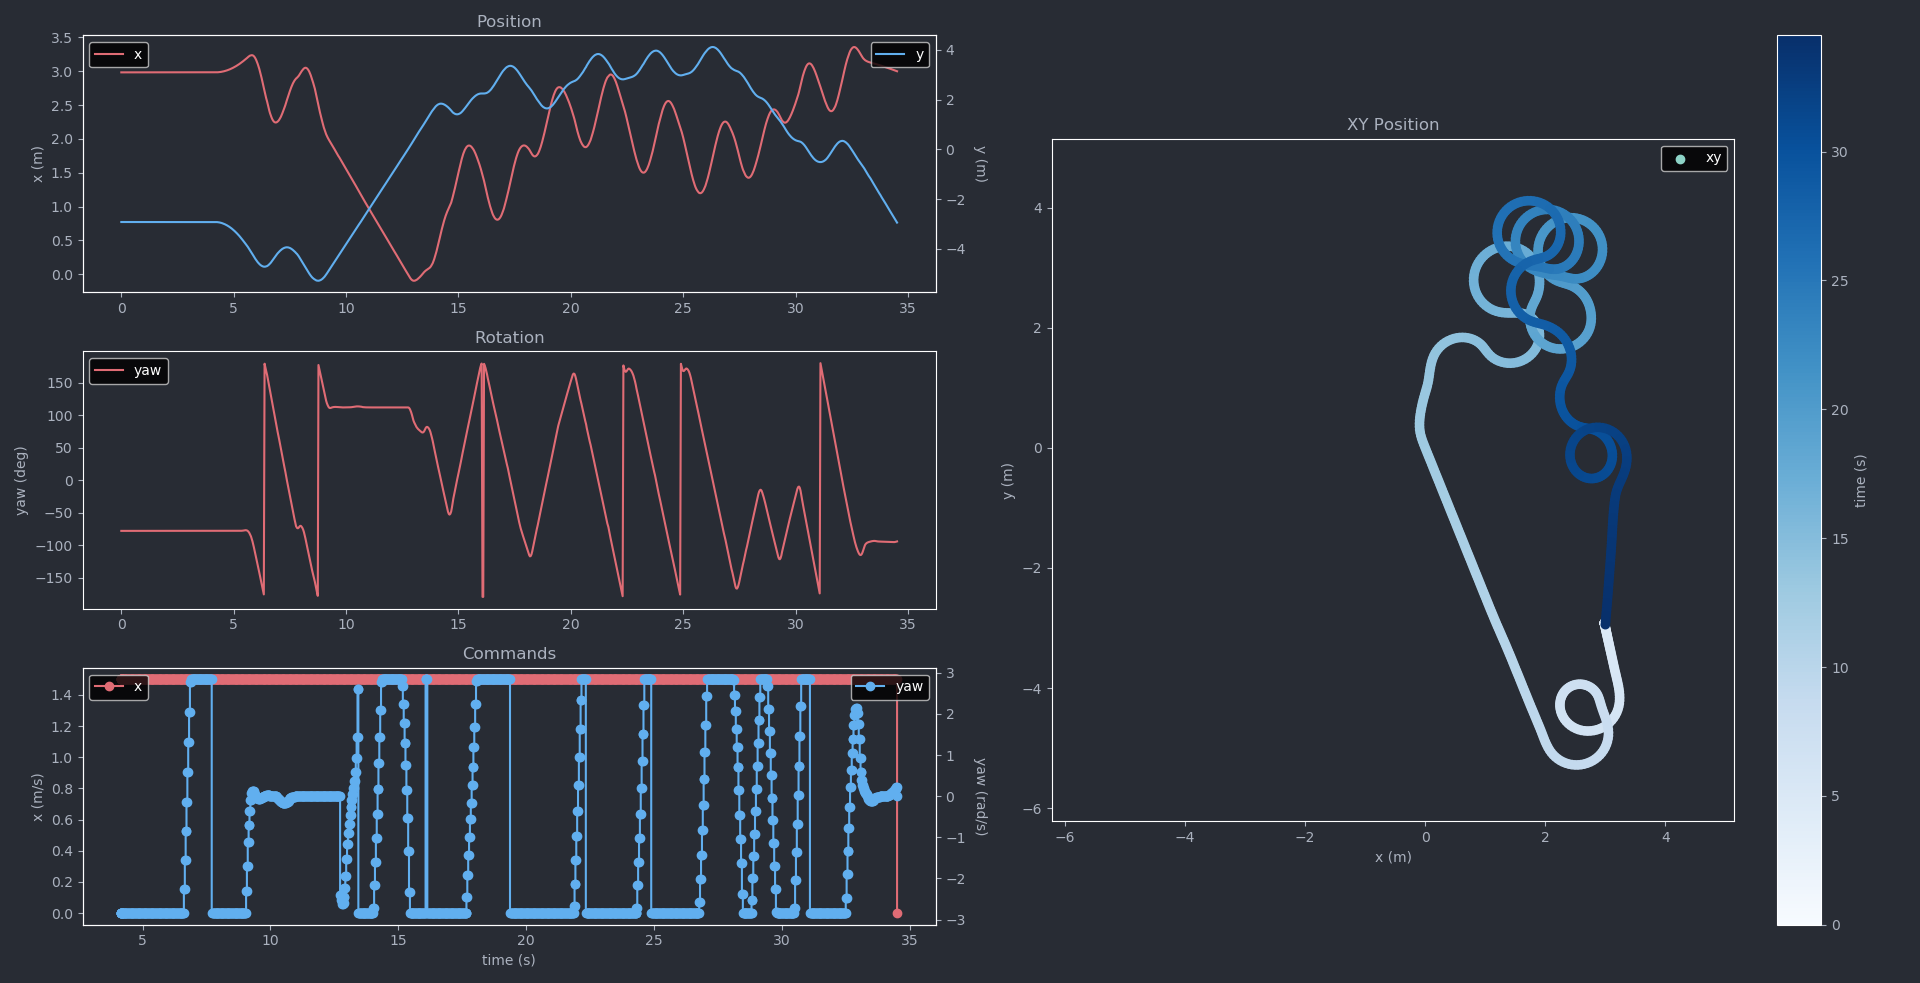
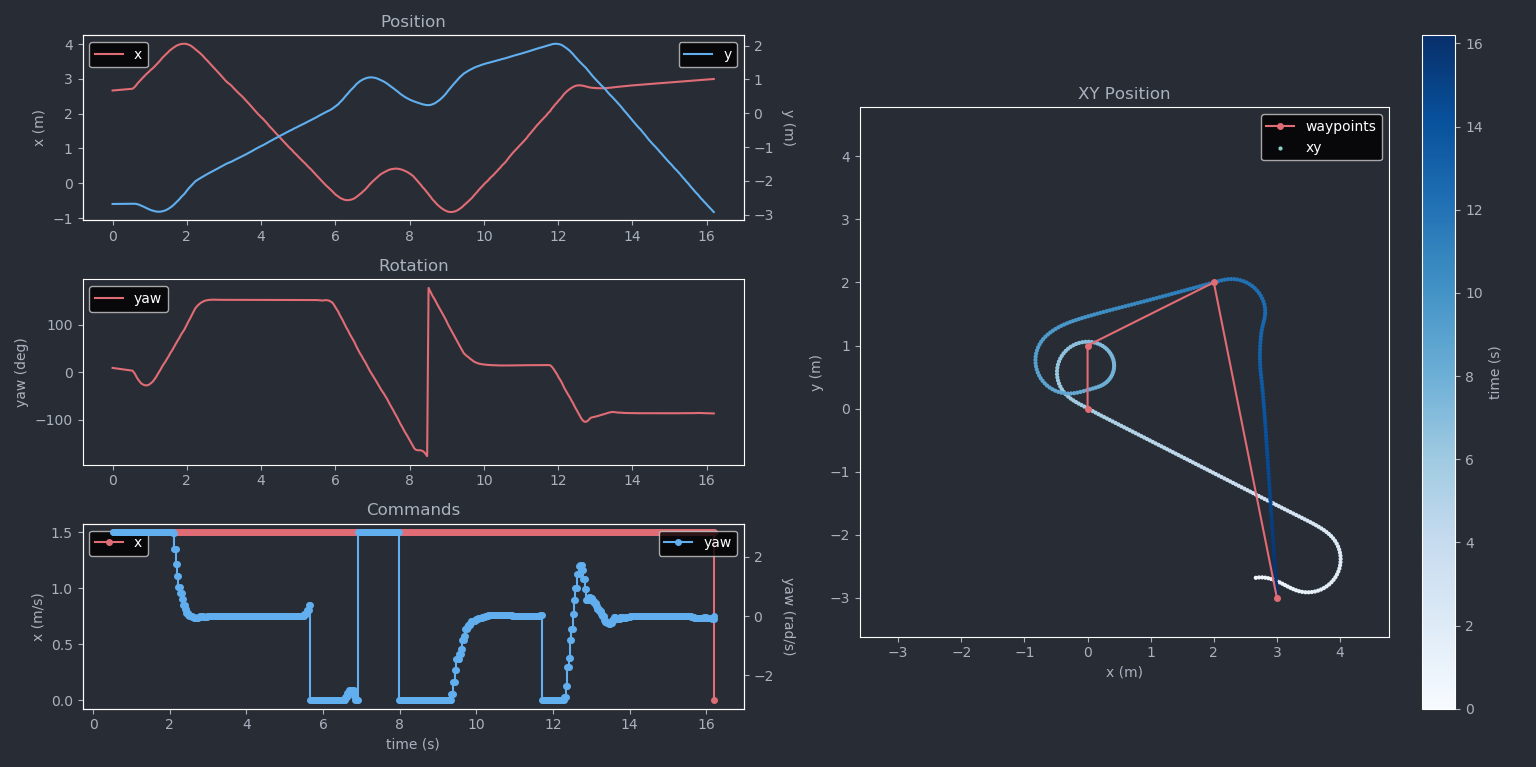
overclock simulation use ros2 launch seag... empty_world ...

diff --git a/seagraves_unmanned_systems_pkg/controller.py b/seagraves_unmanned_systems_pkg/controller.py
@@ -12,6 +12,7 @@ import rclpy
 from rclpy.node import Node
 from rclpy.subscription import Subscription
 from rclpy.publisher import Publisher
+from rosgraph_msgs.msg import Clock
 
 # personal imports
 from support_module.Logger import Logger
@@ -98,13 +99,14 @@ class Controller(Node):
         self.waypoints = waypoints
 
         # initialize subscriber and publisher
-        self.subscriber: Subscription = self.create_subscription(Odometry, "/odom", self.callback, 10)
+        self.odom_subscriber: Subscription = self.create_subscription(Odometry, "/odom", self.odom_callback, 10)
+        self.clock_subscriber: Subscription = self.create_subscription(Clock, "/clock", self.clock_callback, 10)
         self.publisher: Publisher = self.create_publisher(Twist, "/cmd_vel", 10)
 
         # intialize the Twist() message
         self.msg: Twist = Twist()
 
-        self.pid: PID = PID(kp=6.5, ki=0, kd=0)
+        self.pid: PID = PID(kp=4.5, ki=0, kd=0.25)
         self.previous_time: int = self.get_clock().now().nanoseconds
         self.current_time: int = self.get_clock().now().nanoseconds
         self.dt: float = 0.0
@@ -123,6 +125,9 @@ class Controller(Node):
         self.command_logger = Logger(headers=["time", "linear_x", "linear_y", "linear_z", "angular_x", "angular_y", "angular_z"], filename="command_log.csv")
         self.pose_logger = Logger(headers=["time", "position_x", "position_y", "position_z", "roll", "pitch", "yaw"], filename="pose_log.csv")
 
+        self.sim_start: float = 0
+        self.sim_current: float = 0
+
 
     def publish(self) -> None:
         self.command_logger.log([
@@ -137,7 +142,7 @@ class Controller(Node):
         
         self.publisher.publish(self.msg)
 
-    def callback(self, msg: Odometry) -> None:
+    def odom_callback(self, msg: Odometry) -> None:
         self.previous_time = self.current_time
         self.current_time = self.get_clock().now().nanoseconds
         self.dt = (self.current_time - self.previous_time) / 1e9
@@ -162,6 +167,10 @@ class Controller(Node):
             self.command_update()
         elif self.waypoints:
             self.waypoint_update()
+
+    def clock_callback(self, msg: Clock) -> None:
+        self.sim_start = msg.clock.sec + msg.clock.nanosec / 1e9 if not self.sim_start else self.sim_start
+        self.sim_current = msg.clock.sec + msg.clock.nanosec / 1e9
 
     def command_update(self) -> None:
 
@@ -227,6 +236,11 @@ class Controller(Node):
                 pid_desired_heading, self.yaw, self.dt
             ), -2.84, 2.84
         )
+        # self.msg.linear.x = clamp(
+        #     self.pid.update(
+        #         pid_desired_heading, self.yaw, self.dt
+        #     )
+        # )
         
         if self.waypoints[0].arrived_at_waypoint(current_position):
             print(f"Arrived at waypoint: {self.waypoints[0]}")
@@ -266,7 +280,6 @@ def main():
     # print("Command execution complete!")
 
     # controller.heading_logger.close()
-    # controller.command_logger.close()
 
     ############################################################################
 
@@ -287,10 +300,13 @@ def main():
         rclpy.spin_once(controller)
     
     end_ns: int = controller.get_clock().now().nanoseconds
-    print(f"Waypoint execution complete! Total time: {(end_ns - start_ns) / 1e9} seconds")
+    print("Waypoint execution complete!")
+    print(f"Total time: {(end_ns - start_ns) / 1e9} seconds")
+    print(f"Simulation time: {controller.sim_current - controller.sim_start:.3f} seconds")
 
     ############################################################################
 
+    controller.command_logger.close()
     controller.pose_logger.close()
 
     controller.destroy_node()

diff --git a/extra/LogPlotter.py b/extra/LogPlotter.py
@@ -102,10 +102,10 @@ def main() -> None:
 
     rotation_subplot.plot(current_time, current_yaw, color=Colors.red, label="yaw")
 
-    command_subplot.plot(command_time, command_x, color=Colors.red, label="x", marker="o")
-    twin_command.plot(command_time, command_yaw, color=Colors.blue, label="yaw", marker="o")
+    command_subplot.plot(command_time, command_x, color=Colors.red, label="x", marker="o", markersize=4)
+    twin_command.plot(command_time, command_yaw, color=Colors.blue, label="yaw", marker="o", markersize=4)
 
-    xy_subplot.scatter(current_x, current_y, c=current_time, label="xy")
+    xy_subplot.scatter(current_x, current_y, c=current_time, label="xy", marker="o", s=4)
 
     min_axis = min(min(current_x), min(current_y))
     max_axis = max(max(current_x), max(current_y))
@@ -114,6 +114,12 @@ def main() -> None:
     xy_subplot.set_xlim(min_axis, max_axis)
     xy_subplot.set_ylim(min_axis, max_axis)
     xy_subplot.set_aspect('equal')
+
+    waypoints: list[list[float], list[float]] = [
+        [0, 0, 2, 3],
+        [0, 1, 2, -3],
+    ]
+    xy_subplot.plot(waypoints[0], waypoints[1], color=Colors.red, label="waypoints", marker="o", markersize=4)
     
     # labels
     position_subplot.set_ylabel('x (m)')

diff --git a/turtlebot3_gazebo/launch/empty_world_no_x.launch.py b/turtlebot3_gazebo/launch/empty_world_no_x.launch.py
@@ -31,12 +31,14 @@ TURTLEBOT3_MODEL = os.environ['TURTLEBOT3_MODEL']
 
 def generate_launch_description():
     world_file_name = 'empty_worlds/' + TURTLEBOT3_MODEL + '.model'
-    world_path = os.path.join(get_package_share_directory('turtlebot3_gazebo'),
-                         'worlds', world_file_name)
+    world_path = os.path.join(
+        '/home/thomas/ros2_ws/src/seagraves_unmanned_systems_pkg/turtlebot3_gazebo', 'worlds', world_file_name
+    )
     launch_file_dir = os.path.join(get_package_share_directory('turtlebot3_gazebo'), 'launch')
     pkg_gazebo_ros = get_package_share_directory('gazebo_ros')
 
-    print('LOOK HERE', world_path)
+    print(f"World Path: {world_path}")
+    print(f"Launch File Dir: {launch_file_dir}")
 
     headless = LaunchConfiguration('headless')
     use_sim_time = LaunchConfiguration('use_sim_time')
